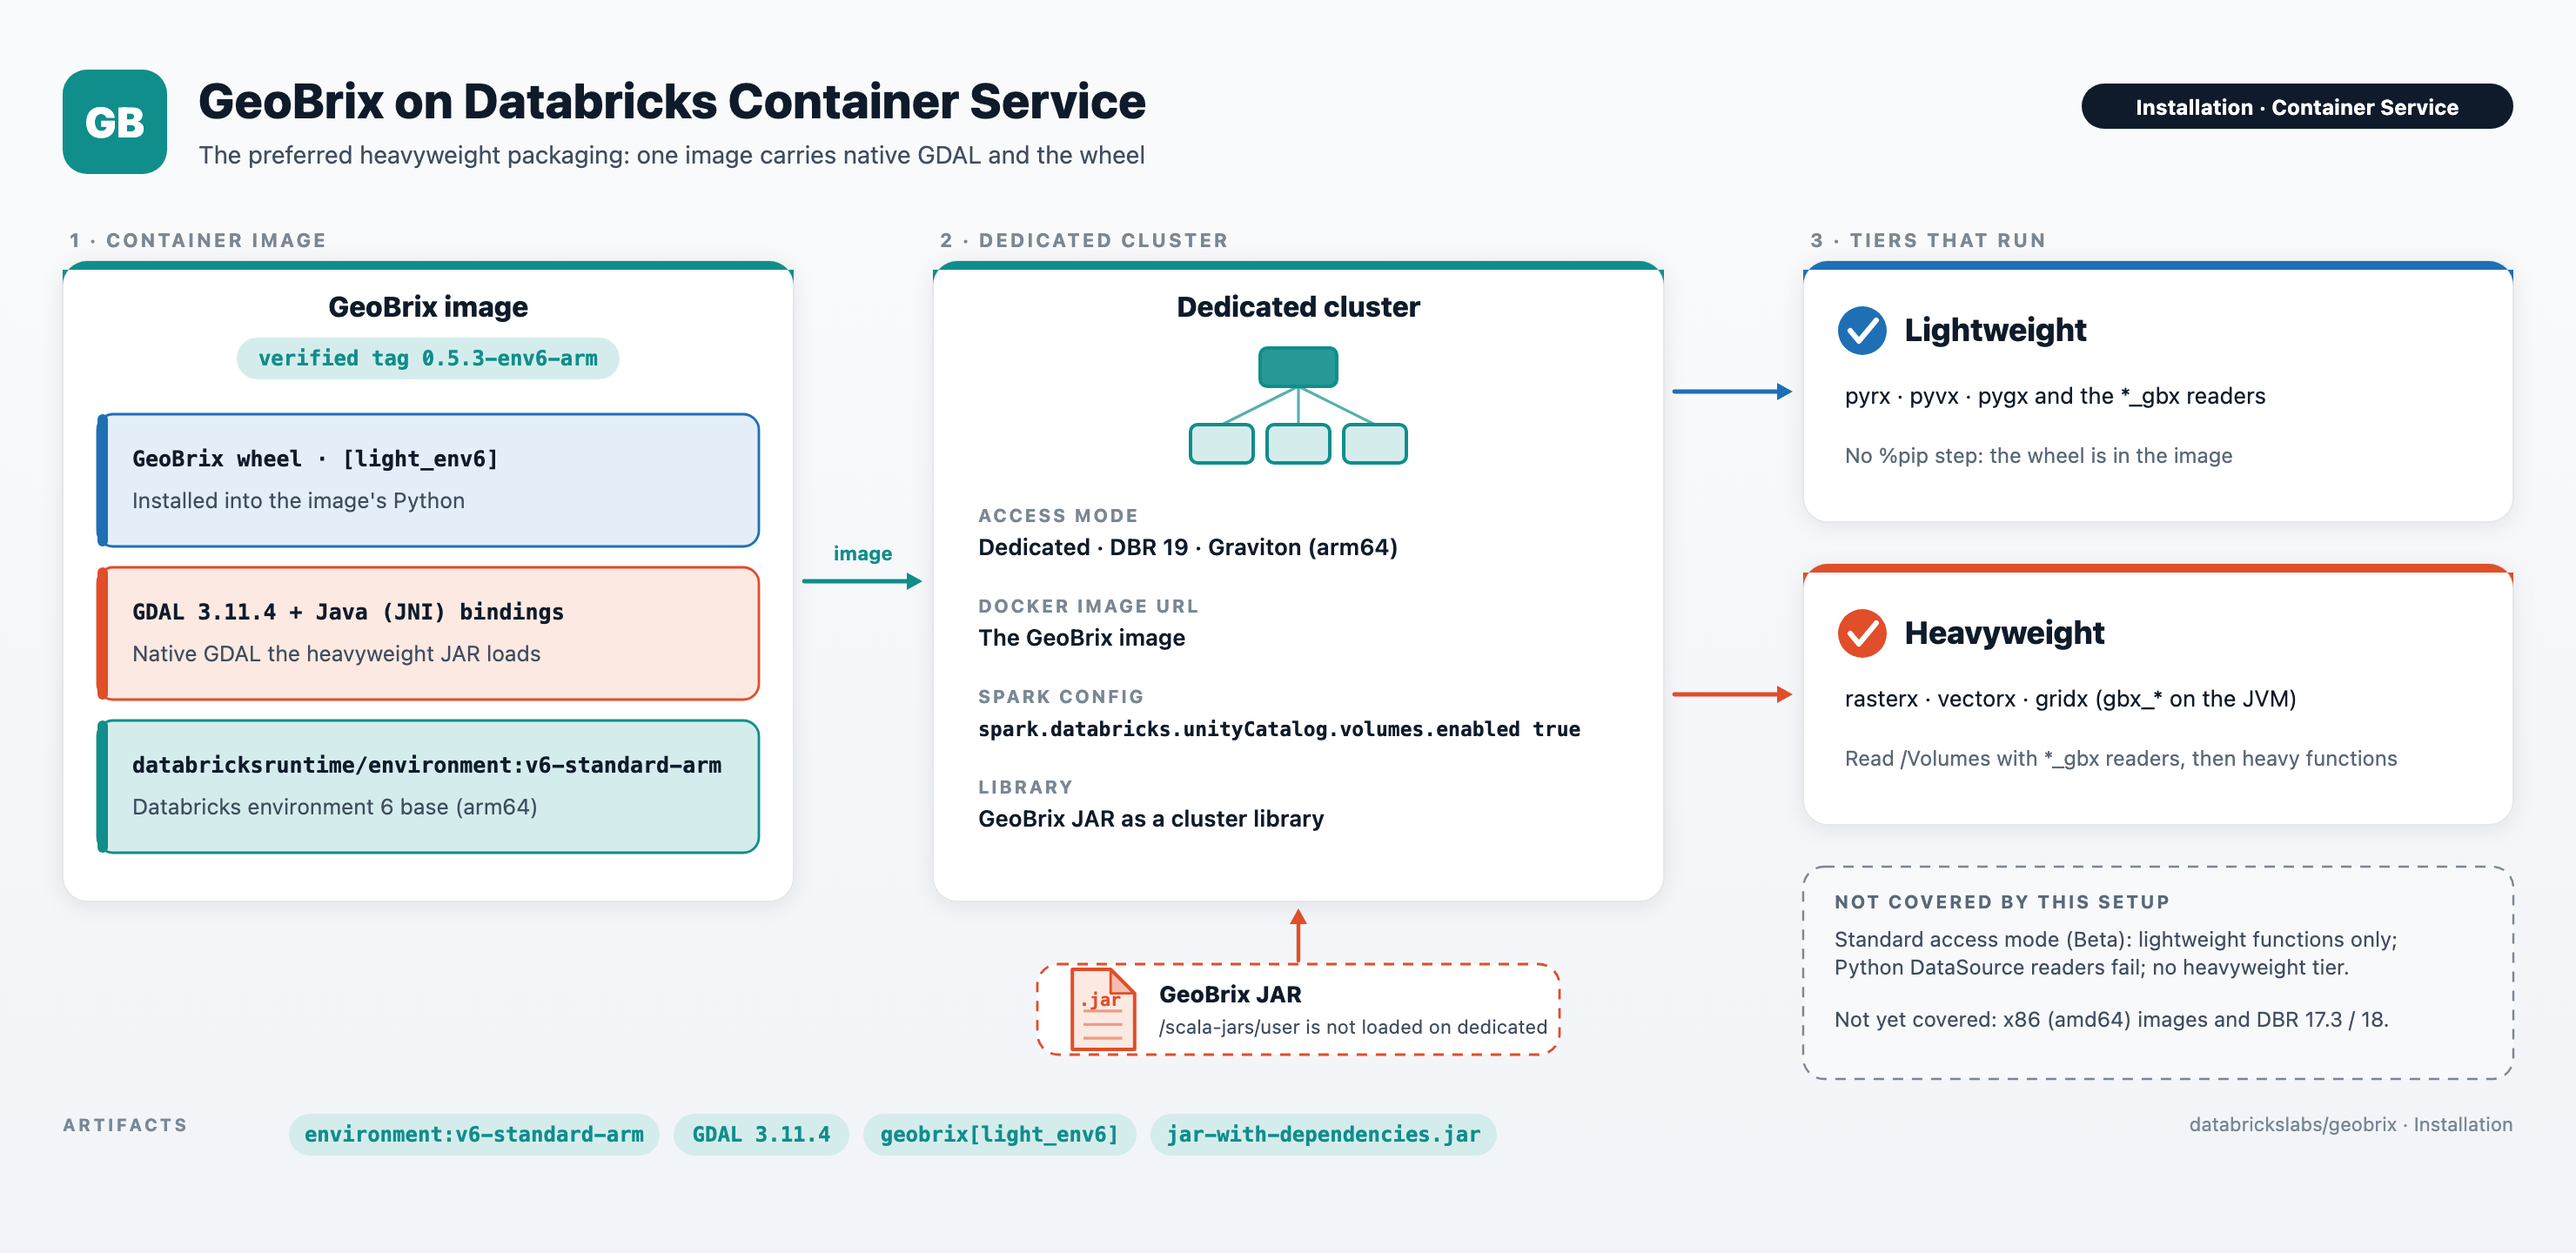
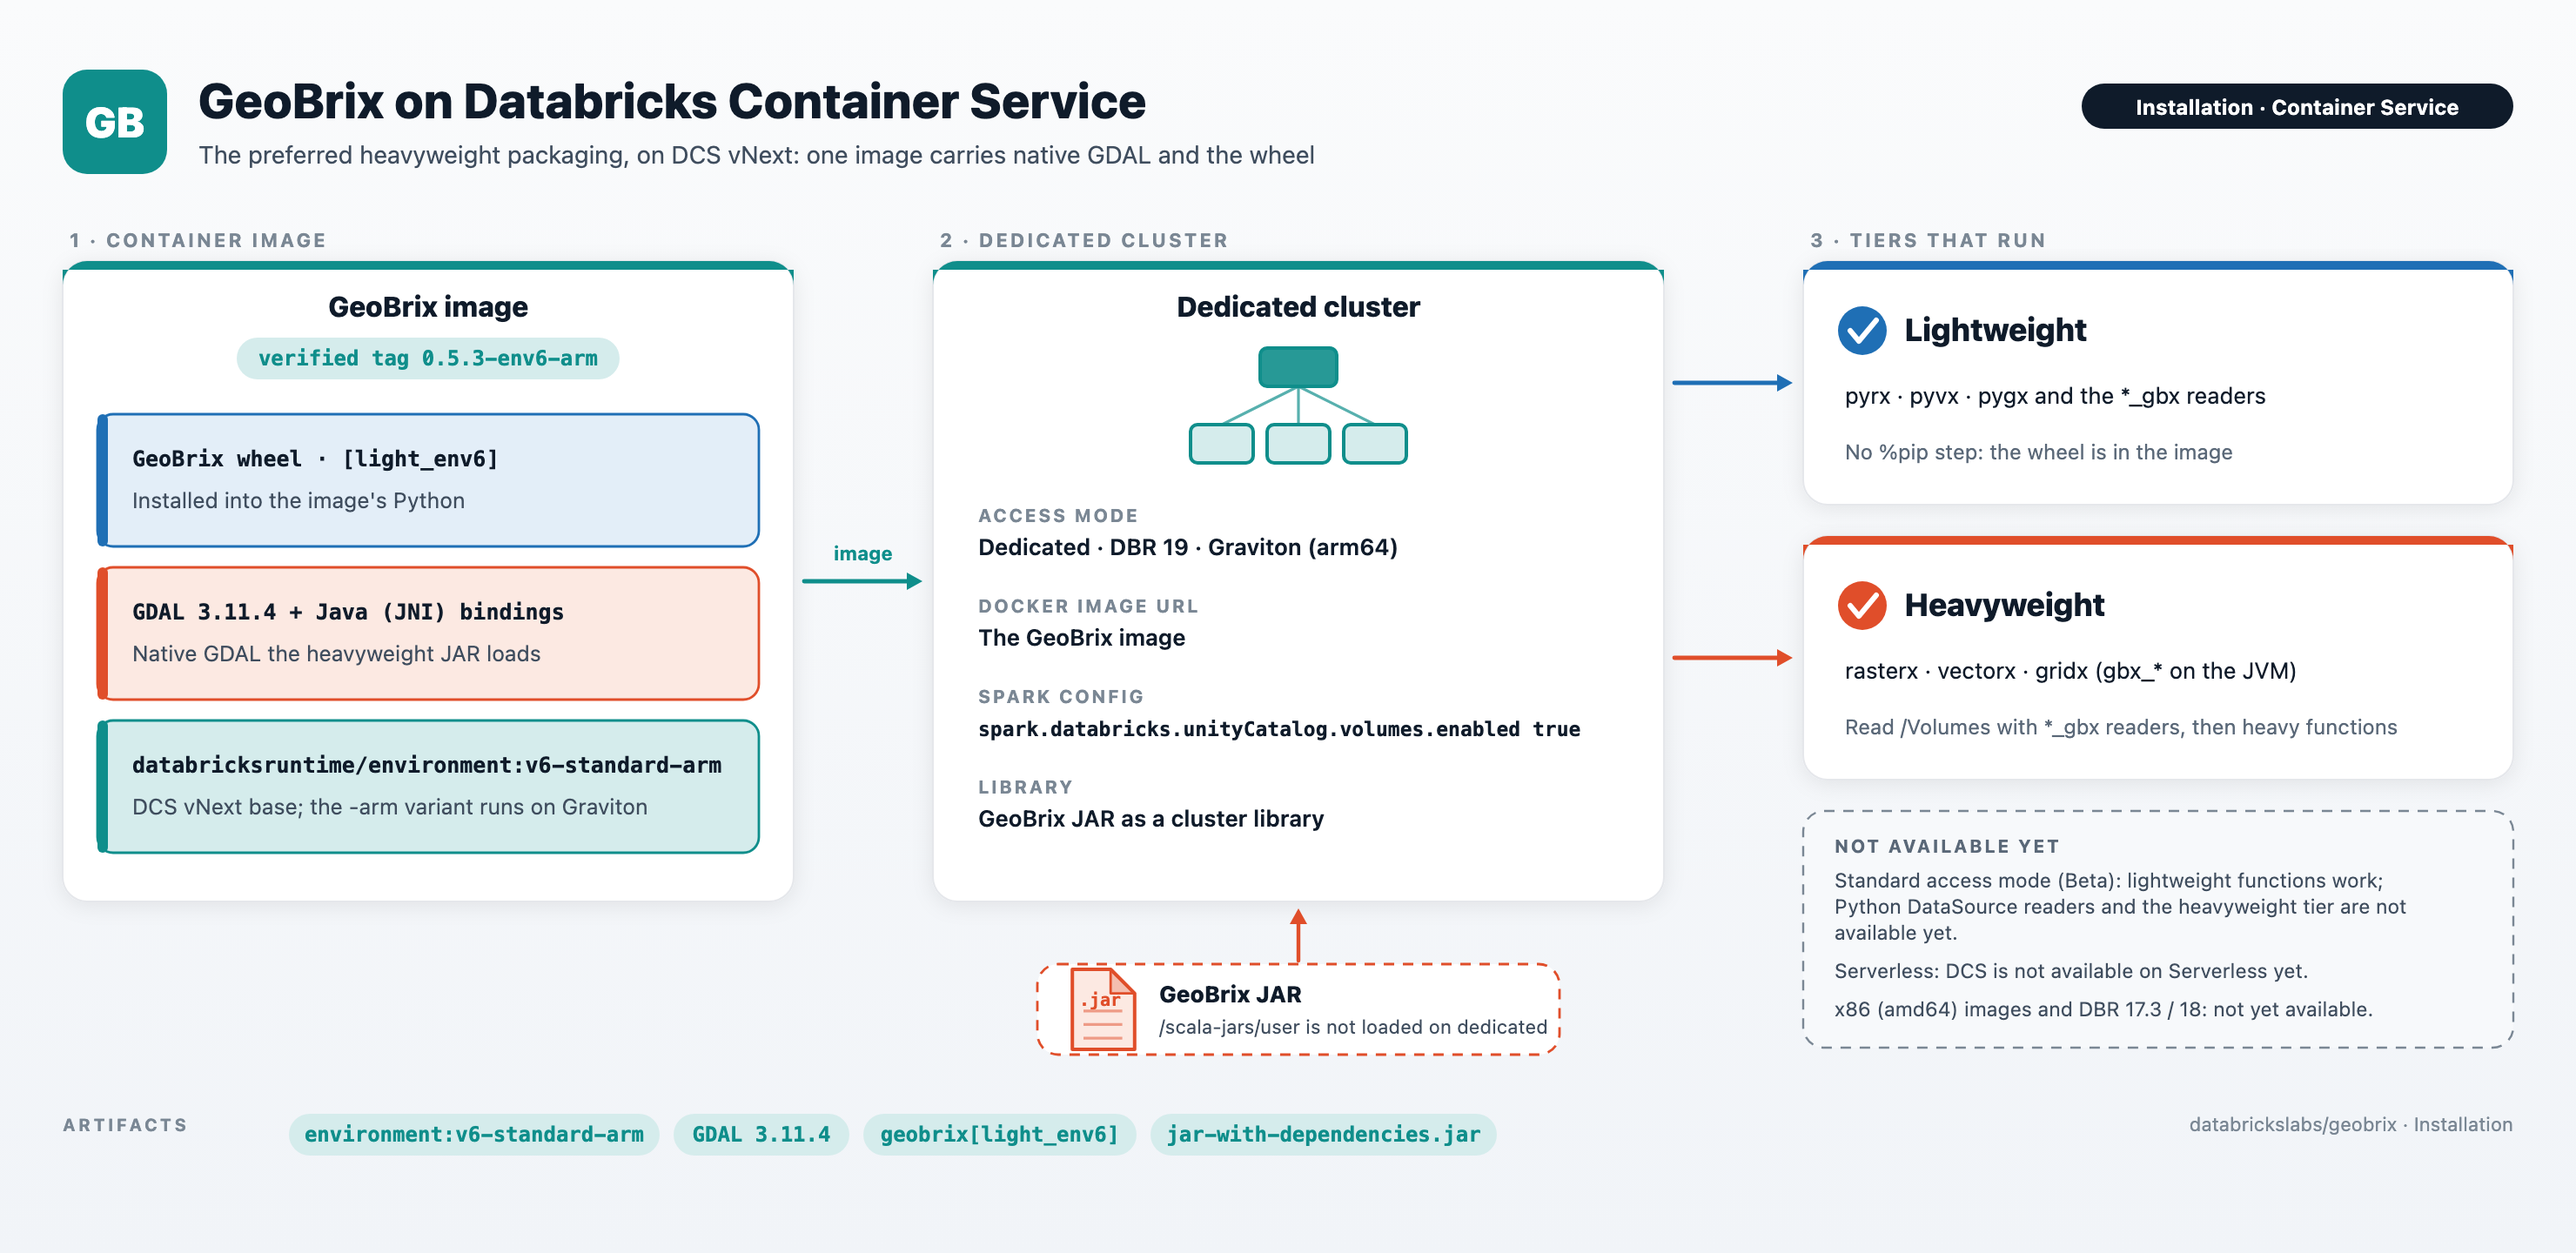
docs(installation): reframe DCS on vNext; init script runs both tiers
The DCS image is built on the DCS vNext environment images, where Graviton
is supported through the ARM base, so the "Graviton unsupported" note
(which applies to the older dedicated DCS line) is removed. Status is now
stated plainly: dedicated is verified for both tiers, standard access mode
runs lightweight functions only, Serverless is not available yet.

An Init Script (Legacy) cluster also installs the wheel as a cluster
library, so it runs both tiers; the landing table, page, diagrams and alt
texts now say so.

diff --git a/resources/images/generators/installation.py b/resources/images/generators/installation.py
@@ -240,8 +240,8 @@ PATHS = [
          title="Databricks Container Service", chip="GeoBrix container image",
          branch="Heavyweight · Graviton (arm64)", badge="PREFERRED",
          runs="Dedicated cluster · Graviton (arm64) · DBR 19",
-         install="A GeoBrix image (native GDAL + the wheel), plus the JAR as a cluster library",
-         extra="Not yet covered: x86 (amd64), DBR 17.3 / 18",
+         install="A GeoBrix image on DCS vNext (native GDAL + the wheel), plus the JAR as a cluster library",
+         extra="Not yet available: x86 (amd64) and DBR 17.3 / 18 images",
          tiers=["Lightweight", "Heavyweight"]),
     dict(theme=VIOLET, glyph=g_script, letter="c",
          title="Init Script (Legacy)", chip="geobrix-gdal-init.sh",
@@ -249,7 +249,7 @@ PATHS = [
          runs="Classic x86 cluster · DBR 17.3 / 18 / 19",
          install="Init script, GDAL tarball + .sha256 sidecar on a Volume; wheel as a cluster library",
          extra="Still supported where the DCS image doesn't reach yet",
-         tiers=["Heavyweight"]),
+         tiers=["Lightweight", "Heavyweight"]),
 ]
 
 
@@ -319,7 +319,7 @@ def body_dcs():
     layers = [
         ("GeoBrix wheel  ·  [light_env6]", "Installed into the image's Python", BLUE),
         ("GDAL 3.11.4 + Java (JNI) bindings", "Native GDAL the heavyweight JAR loads", ORANGE),
-        ("databricksruntime/environment:v6-standard-arm", "Databricks environment 6 base (arm64)", TEAL),
+        ("databricksruntime/environment:v6-standard-arm", "DCS vNext base; the -arm variant runs on Graviton", TEAL),
     ]
     ly = top + 88
     for title, sub, th in layers:
@@ -376,7 +376,7 @@ def body_dcs():
         (HEAVY_TIER, "Heavyweight", "rasterx · vectorx · gridx (gbx_* on the JVM)",
          "Read /Volumes with *_gbx readers, then heavy functions"),
     ]
-    th_h, ty = 150, top
+    th_h, th_gap, ty = 140, 18, top
     for th, name, l1, l2 in tiers:
         a, t = th["accent"], th["tint"]
         out.append(panel(x3, ty, w3, th_h, accent=a))
@@ -386,26 +386,25 @@ def body_dcs():
                    f'stroke-linejoin="round"/>')
         out.append(text(x3 + 58, ty + 46, name, size=18, weight=800, fill=C_INK))
         out.extend(wrap_left(x3 + 24, ty + 82, w3 - 48, l1, size=13, fill=C_INK))
-        out.extend(wrap_left(x3 + 24, ty + 116, w3 - 48, l2, size=12, fill=C_MUTED_2))
-        ty += th_h + 24
+        out.extend(wrap_left(x3 + 24, ty + 114, w3 - 48, l2, size=12, fill=C_MUTED_2))
+        ty += th_h + th_gap
     out.append(parrow(x2 + w2 + 6, top + th_h / 2, x3 - 6, top + th_h / 2, LIGHT_TIER["accent"]))
-    out.append(parrow(x2 + w2 + 6, top + th_h * 1.5 + 24, x3 - 6, top + th_h * 1.5 + 24,
-                      HEAVY_TIER["accent"]))
+    out.append(parrow(x2 + w2 + 6, top + th_h * 1.5 + th_gap, x3 - 6,
+                      top + th_h * 1.5 + th_gap, HEAVY_TIER["accent"]))
 
-    # --- not-covered strip -----------------------------------------------------
-    sx, sy = x3, top + 2 * th_h + 48
-    sw, sh = w3, 122
+    # --- not-yet-available strip -----------------------------------------------
+    sx, sy = x3, top + 2 * th_h + th_gap + 18
+    sw, sh = w3, 136
     out.append(f'<rect x="{sx}" y="{sy}" rx="12" ry="12" width="{sw}" height="{sh}" '
                f'fill="#F7F9FB" stroke="{C_MUTED_3}" stroke-width="1.2" stroke-dasharray="6 5"/>')
-    out.append(text(sx + 18, sy + 24, "NOT COVERED BY THIS SETUP", size=10.5, weight=700,
+    out.append(text(sx + 18, sy + 24, "NOT AVAILABLE YET", size=10.5, weight=700,
                     fill=C_MUTED_2, letter_spacing="1.2"))
-    out.extend(wrap_left(sx + 18, sy + 46, sw - 36,
-                         "Standard access mode (Beta): lightweight functions only; "
-                         "Python DataSource readers fail; no heavyweight tier.",
-                         size=12, fill=C_MUTED, line_h=16))
-    out.extend(wrap_left(sx + 18, sy + 92, sw - 36,
-                         "Not yet covered: x86 (amd64) images and DBR 17.3 / 18.",
-                         size=12, fill=C_MUTED, line_h=16))
+    for yy, msg in ((44, "Standard access mode (Beta): lightweight functions work; Python "
+                         "DataSource readers and the heavyweight tier are not available yet."),
+                    (96, "Serverless: DCS is not available on Serverless yet."),
+                    (118, "x86 (amd64) images and DBR 17.3 / 18: not yet available.")):
+        out.extend(wrap_left(sx + 18, sy + yy, sw - 36, msg, size=11.5, fill=C_MUTED,
+                             line_h=15))
     return "".join(out)
 
 
@@ -479,9 +478,9 @@ def body_init_script():
                         letter_spacing="1.2"))
         out.append(text(x3 + 24, ry + 19, val, size=13, weight=600, fill=C_INK))
         ry += 52
-    tsvg, _ = tier_chips(x3 + 24, top + h - 48, ["Heavyweight"])
+    tsvg, _ = tier_chips(x3 + 24, top + h - 48, ["Lightweight", "Heavyweight"])
     out.append(tsvg)
-    out.append(text(x3 + w3 - 24, top + h - 30, "TIER", size=10.5, weight=700,
+    out.append(text(x3 + w3 - 24, top + h - 30, "TIERS", size=10.5, weight=700,
                     fill=C_MUTED_3, anchor="end", letter_spacing="1.2"))
 
     # arrows
@@ -509,7 +508,7 @@ DIAGRAMS = {
     "dcs": dict(
         badge="GB", theme=TEAL,
         title="GeoBrix on Databricks Container Service",
-        subtitle="The preferred heavyweight packaging: one image carries native GDAL and the wheel",
+        subtitle="The preferred heavyweight packaging, on DCS vNext: one image carries native GDAL and the wheel",
         pill="Installation  ·  Container Service",
         body=body_dcs,
         chips=["environment:v6-standard-arm", "GDAL 3.11.4", "geobrix[light_env6]",
